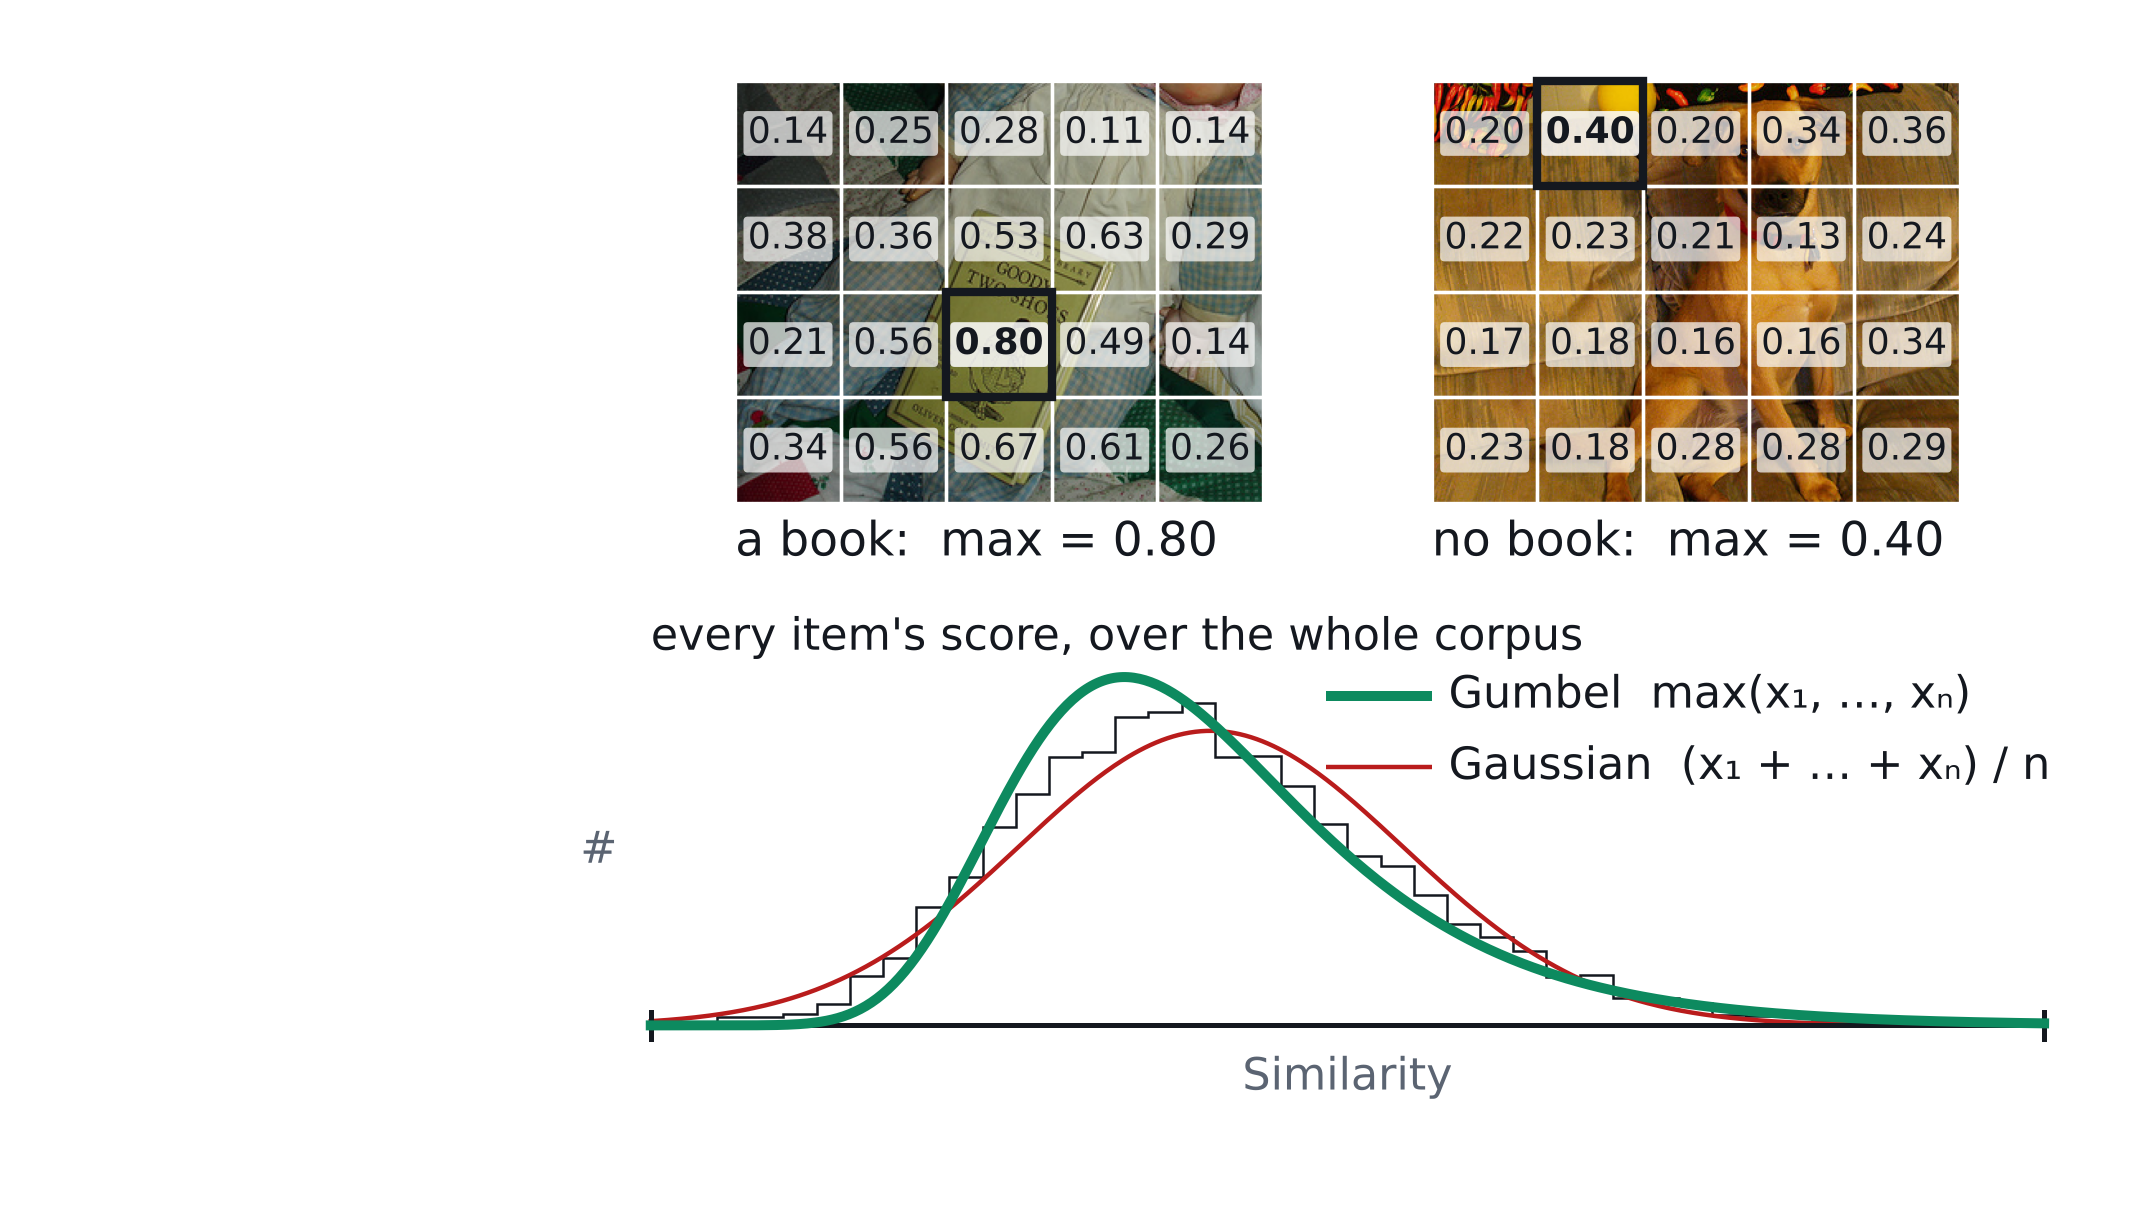
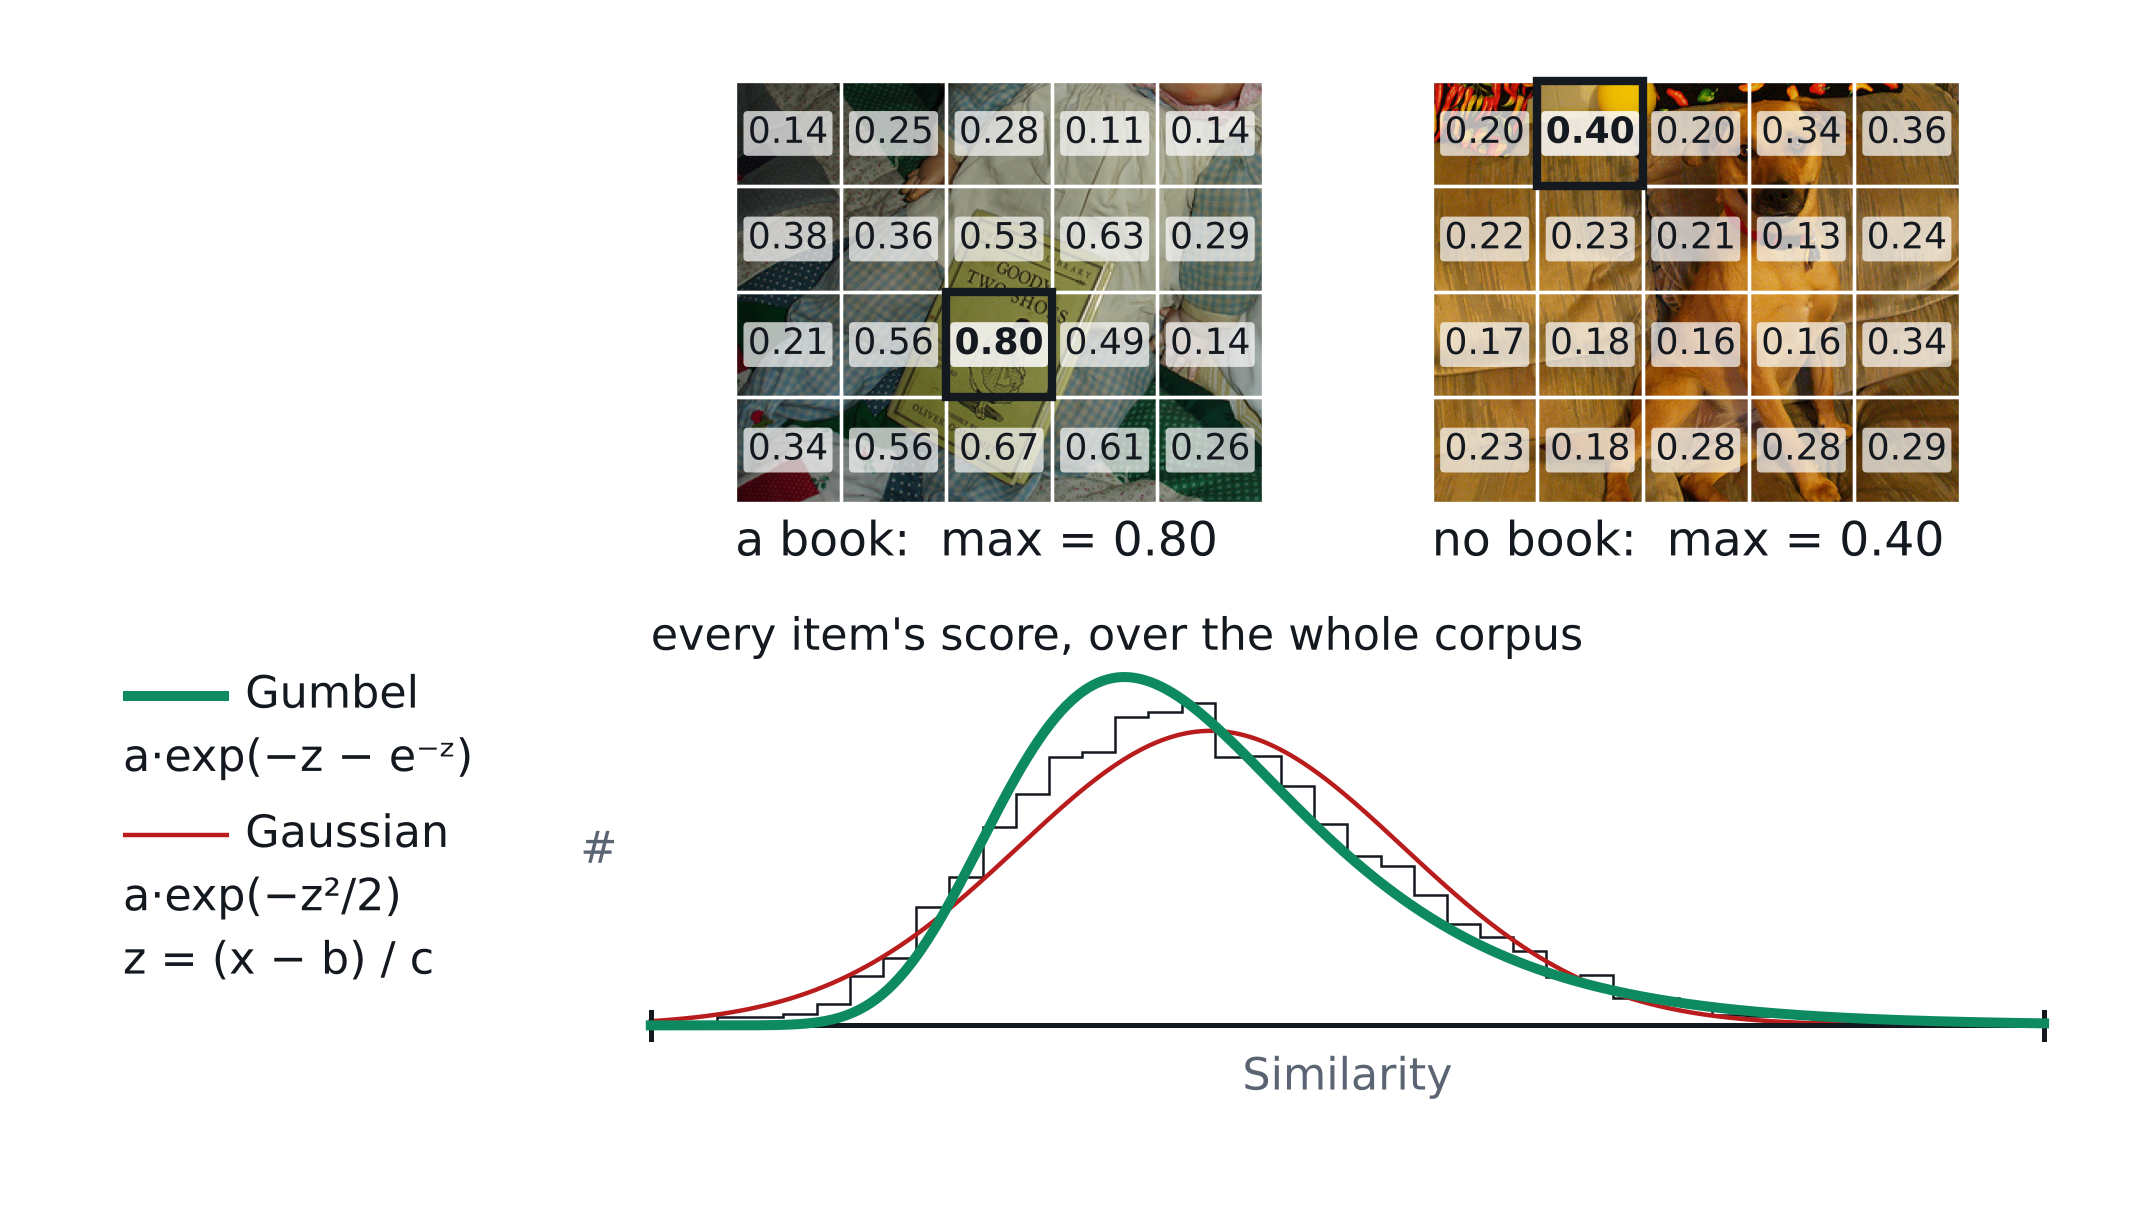
#5171: Extreme Measures writes the two curves on a page of their own
The fits keep their keyed legend; a last page adds each curve's formula
under its name, in one z, so the page can be dropped on its own.

Claude-Session: https://claude.ai/code/session_01SsN5CWsMRqgAU3zP6TtghM

diff --git a/slides/figs/src/make-calib-figs.py b/slides/figs/src/make-calib-figs.py
@@ -3814,8 +3814,11 @@ FBETA_STAGES = 5
 
 #: How many stages the region-maximum figure reveals in: two photographs cut
 #: into regions; each region's score and the max over them; the corpus of
-#: maxima; the two tail families fitted to it.
-REGION_MAX_STAGES = 4
+#: maxima; the two tail families fitted to it; and the two curves written out.
+#: The formulas are a page of their own so the deck can drop them by dropping
+#: that page (owner, #5171).
+REGION_MAX_STAGES = 5
+REGION_FITS_STAGE = 4
 
 #: The balances the F-beta figure draws, top row first, as (beta, label): the
 #: app's three presets (#4448), F-beta's beta of 1/4, 1 and 4. Symmetric about
@@ -4839,6 +4842,9 @@ def region_max_fig() -> None:
     vote is, why an item's score becomes a maximum, and why a maximum is not
     Gaussian-shaped (#3246).
     """
+    # The key's widest line has to clear the "#" at the histogram's left edge.
+    widest = max(_text_width(text, REGION_KEY_PT) for text in [m for _, m, *_ in REGION_FITS] + [REGION_FITS_Z])
+    assert REGION_KEY_X + widest < REGION_PANEL_X0 - 1.0, widest
     final = _region_max_stage(REGION_MAX_STAGES)
     box = tight_box(final)
     for stage in range(1, REGION_MAX_STAGES):
@@ -4874,16 +4880,22 @@ REGION_PHOTO_W, REGION_PHOTO_H, REGION_PHOTO_GAP, REGION_PHOTO_X0 = 5.0, 4.0, 1.
 REGION_SCORE_PT = 13
 #: The histogram panel: left edge, floor, and height.
 REGION_PANEL_X0, REGION_PANEL_Y0, REGION_PANEL_H = 5.9, 1.55, 3.3
-#: The two fits on the last page, in the key's order: name, the maths that
-#: tells them apart, which curve, colour and line weight. The Gaussian is thin
-#: and red, the family a maximum is not; the Gumbel thicker and green, the one
-#: it is (owner, #5171).
+#: The two fits, in the key's order: name, the curve's formula, which curve,
+#: colour and line weight. The Gaussian is thin and red, the family a maximum
+#: is not; the Gumbel thicker and green, the one it is (owner, #5171). Both
+#: formulas are in the same z, so the page shows the one thing that differs:
+#: the Gaussian falls off as z² on both sides, the Gumbel fast on the left and
+#: only as e⁻ᶻ on the right. Written as exp(…) so no exponent carries an
+#: exponent of its own, which would set below the type floor.
 REGION_FITS = (
-    ("Gumbel", "max(x₁, …, xₙ)", "gumbel", GREEN, 3.6),
-    ("Gaussian", "(x₁ + … + xₙ) / n", "normal", RED, 1.6),
+    ("Gumbel", "a·exp(−z − e⁻ᶻ)", "gumbel", GREEN, 3.6),
+    ("Gaussian", "a·exp(−z²/2)", "normal", RED, 1.6),
 )
-#: The key's type, and the stretch of line it draws before each name.
-REGION_KEY_PT, REGION_KEY_SEG = 16, 1.0
+REGION_FITS_Z = "z = (x − b) / c"
+#: The key, in the column left of the histogram, under the title notch: where
+#: its lines start, its type, the stretch of line drawn before each name, and
+#: the step between its lines.
+REGION_KEY_X, REGION_KEY_PT, REGION_KEY_SEG, REGION_KEY_STEP = 0.9, 16, 1.0, 0.6
 
 
 def _text_width(text: str, fontsize: float) -> float:
@@ -4892,6 +4904,30 @@ def _text_width(text: str, fontsize: float) -> float:
         TextPath((0, 0), text, size=fontsize, prop=FontProperties(family="DejaVu Sans")).get_extents().width
         / FLOW_UNIT_PT
     )
+
+
+def _region_fits(ax: plt.Axes, stage: int, x: np.ndarray, curves: dict[str, np.ndarray], top: float) -> None:
+    """The two fitted families over the histogram, and their key, from *top* down.
+
+    Red for the family the slide argues against and green for the one it fits,
+    told apart by weight as well as hue, and the key draws a stretch of each
+    line so neither is told by colour alone (owner, #5171). The key's lines
+    keep their places on the last stage, which writes each curve under its name.
+    """
+    y = top
+    for name, maths, key, colour, weight in REGION_FITS:
+        ax.plot(x, curves[key], color=colour, linewidth=weight, zorder=5 if key == "gumbel" else 4)
+        ax.plot([REGION_KEY_X, REGION_KEY_X + REGION_KEY_SEG], [y, y], color=colour, linewidth=weight,
+                solid_capstyle="butt", zorder=4)  # fmt: skip
+        ax.text(REGION_KEY_X + REGION_KEY_SEG + LABEL_GAP, y, name, ha="left", va="center", fontsize=REGION_KEY_PT,
+                color=INK)  # fmt: skip
+        if stage >= REGION_MAX_STAGES:
+            ax.text(REGION_KEY_X, y - REGION_KEY_STEP, maths, ha="left", va="center", fontsize=REGION_KEY_PT,
+                    color=INK)  # fmt: skip
+        y -= 2.2 * REGION_KEY_STEP
+    if stage >= REGION_MAX_STAGES:
+        ax.text(REGION_KEY_X, y + 0.2 * REGION_KEY_STEP, REGION_FITS_Z, ha="left", va="center",
+                fontsize=REGION_KEY_PT, color=INK)  # fmt: skip
 
 
 def _region_max_stage(stage: int) -> plt.Figure:
@@ -5013,28 +5049,10 @@ def _region_max_stage(stage: int) -> plt.Figure:
         )
 
     # ── stage 4: the two tail families, fitted to the same maxima ─────────────
-    # Red for the family the slide argues against and green for the one it fits,
-    # told apart by weight as well as hue, and the key draws a stretch of each
-    # line so neither is told by colour alone (owner, #5171). Each name carries
-    # the one line of maths that separates them: an average of many draws, and
-    # their maximum.
-    if stage >= REGION_MAX_STAGES:
-        right = panel_x0 + panel_w
-        widths = [_text_width(f"{name}  {maths}", REGION_KEY_PT) for name, maths, *_ in REGION_FITS]
-        text_x = right - max(widths)
-        for k, (name, maths, key, colour, weight) in enumerate(REGION_FITS):
-            curve = gumbel if key == "gumbel" else normal
-            ax.plot(
-                panel_x0 + (xs - lo) / (hi - lo) * panel_w,
-                y_base + curve * sy,
-                color=colour,
-                linewidth=weight,
-                zorder=5 if key == "gumbel" else 4,
-            )
-            y = y_base + panel_h - CAP_16 / 2 - k * (CAP_16 + 2 * LABEL_GAP)
-            ax.plot([text_x - LABEL_GAP - REGION_KEY_SEG, text_x - LABEL_GAP], [y, y], color=colour, linewidth=weight,
-                    solid_capstyle="butt", zorder=4)  # fmt: skip
-            ax.text(text_x, y, f"{name}  {maths}", ha="left", va="center", fontsize=REGION_KEY_PT, color=INK)
+    if stage >= REGION_FITS_STAGE:
+        x = panel_x0 + (xs - lo) / (hi - lo) * panel_w
+        curves = {"gumbel": y_base + gumbel * sy, "normal": y_base + normal * sy}
+        _region_fits(ax, stage, x, curves, y_base + panel_h - CAP_16 / 2)
     return fig
 
 

diff --git a/slides/fragments/evt-gumbel.md b/slides/fragments/evt-gumbel.md
@@ -10,6 +10,8 @@
 
 <!-- build: figs/calib-region-max.build3.webp -->
 
+<!-- build: figs/calib-region-max.build4.webp -->
+
 <!-- **a** — Back to that maximum. Two photos in regions, one with a book, one
      without. -->
 
@@ -23,3 +25,7 @@
 <!-- **d** — A max isn't an average, it leans right. Gumbel is to a max what
      Gaussian is to an average, so fit THAT. Does it pay off? We'll know when
      the runs come in. -->
+
+<!-- **e** — The two curves written out, in the same z. The Gaussian falls off
+     as z squared on both sides. The Gumbel falls off fast on the left, but
+     only as e to the minus z on the right: that long right tail is the max. -->
